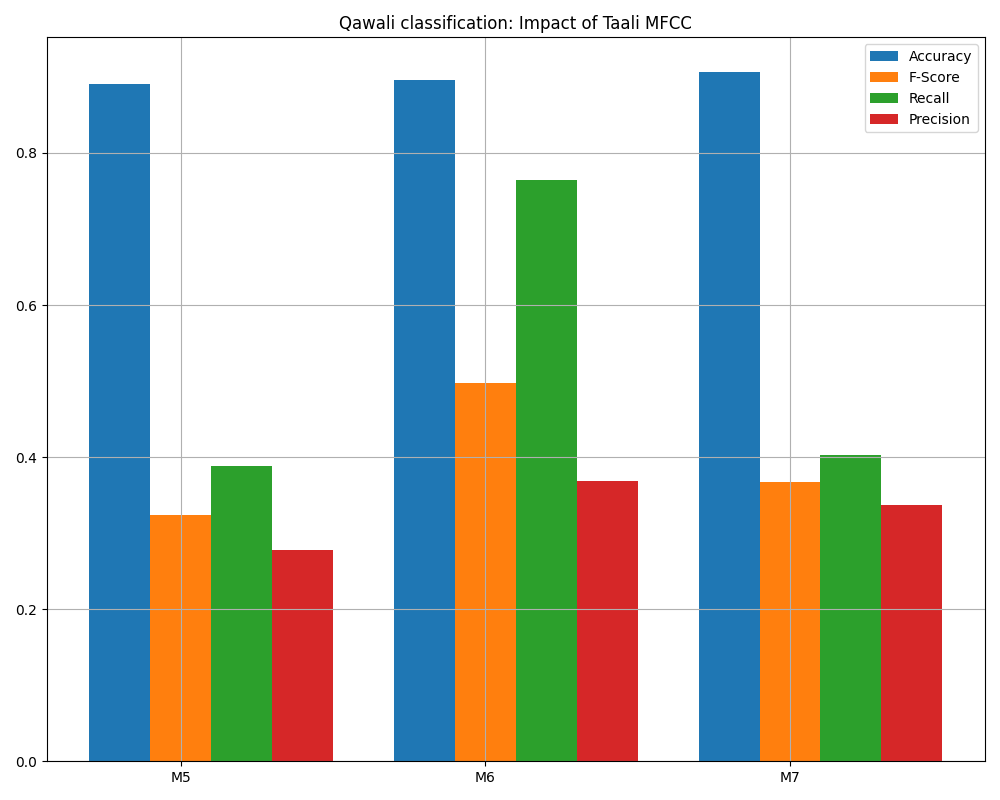
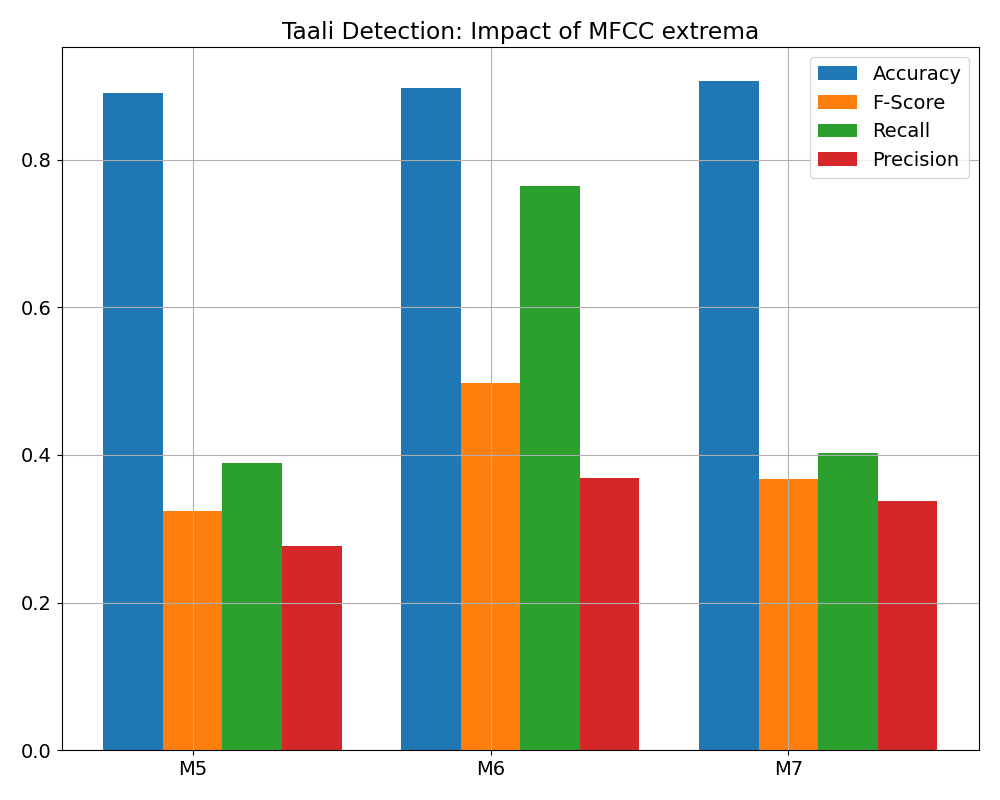
qdetect: Regenerate Taali MFCC graph
Summary: Fix a typon in Taali MFCC graph, regenerate for
article pdf.

diff --git a/src/qdetect.py b/src/qdetect.py
@@ -539,7 +539,7 @@ if __name__ == '__main__':
     # plot results for various cases, by changing one parameter at a time and keeping
     # others fixed
     else:
-        case = "Genre"
+        case = "Taali"
 
         plt.rcParams.update({'font.size': 14})
         if case == "Edge":
@@ -669,7 +669,7 @@ if __name__ == '__main__':
                 tPrecision.append(r[3])
 
             tFig = plt.figure(figsize=(10,8))
-            plt.title('Qawali classification: Impact of Taali MFCC')
+            plt.title('Taali Detection: Impact of MFCC extrema')
             width = 0.2
             plt.bar([e - width for e in tX], tAccuracy, width=width, label='Accuracy')
             plt.bar([e for e in tX], tFscore, width=width, label='F-Score')
